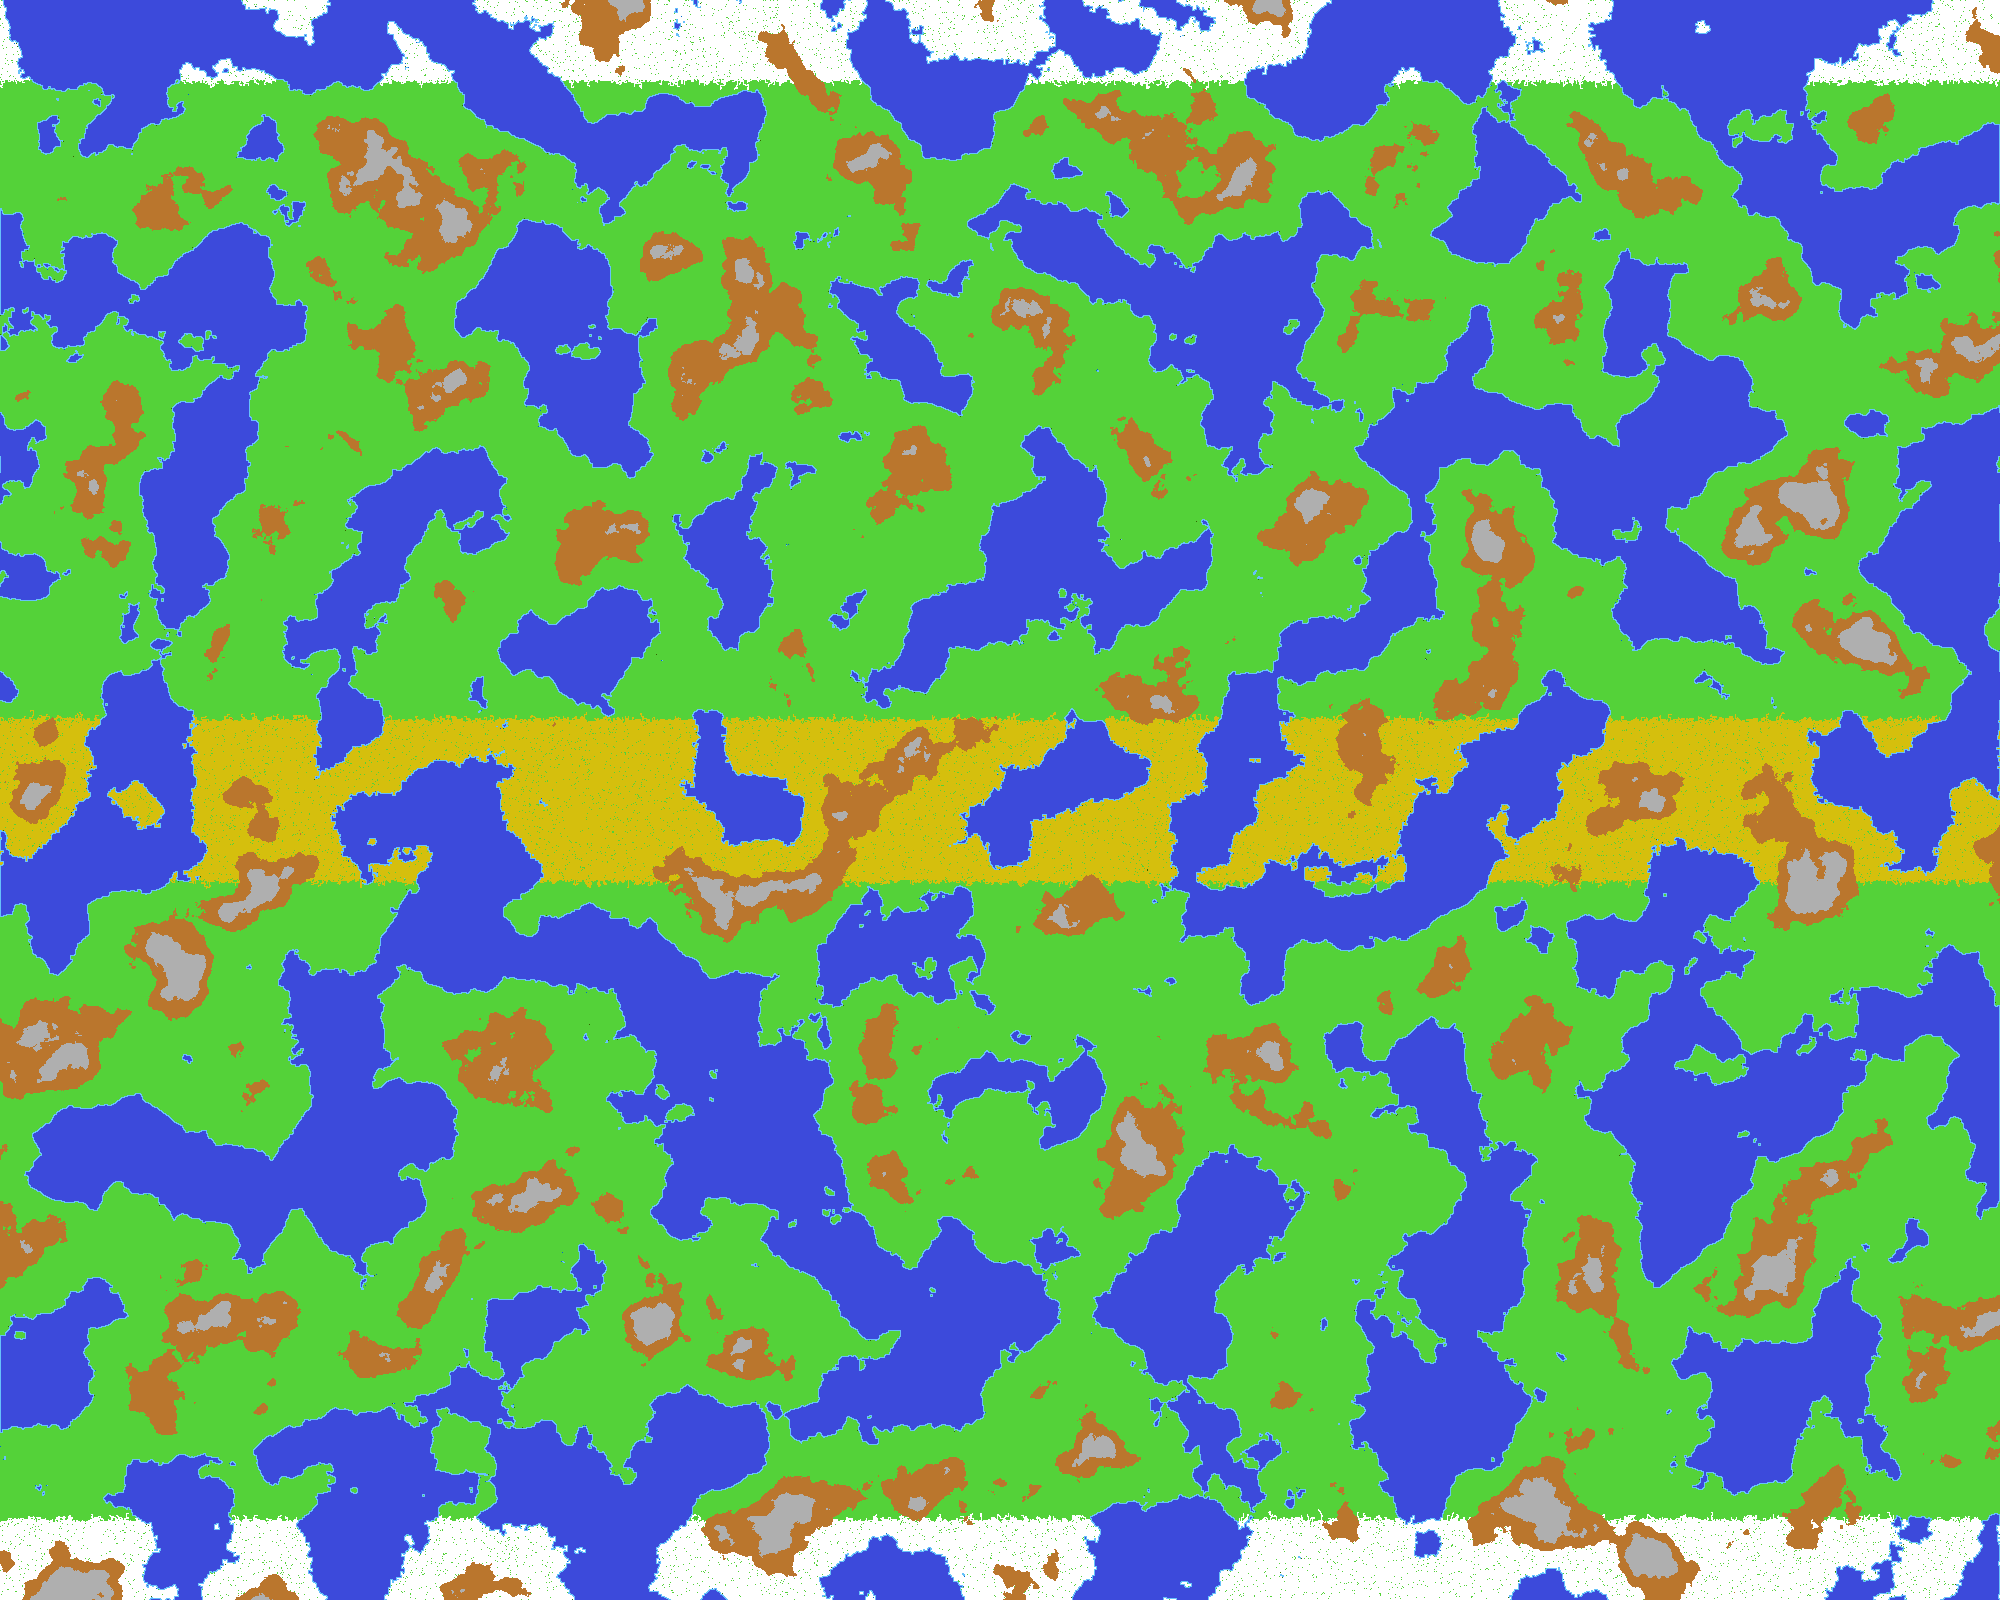
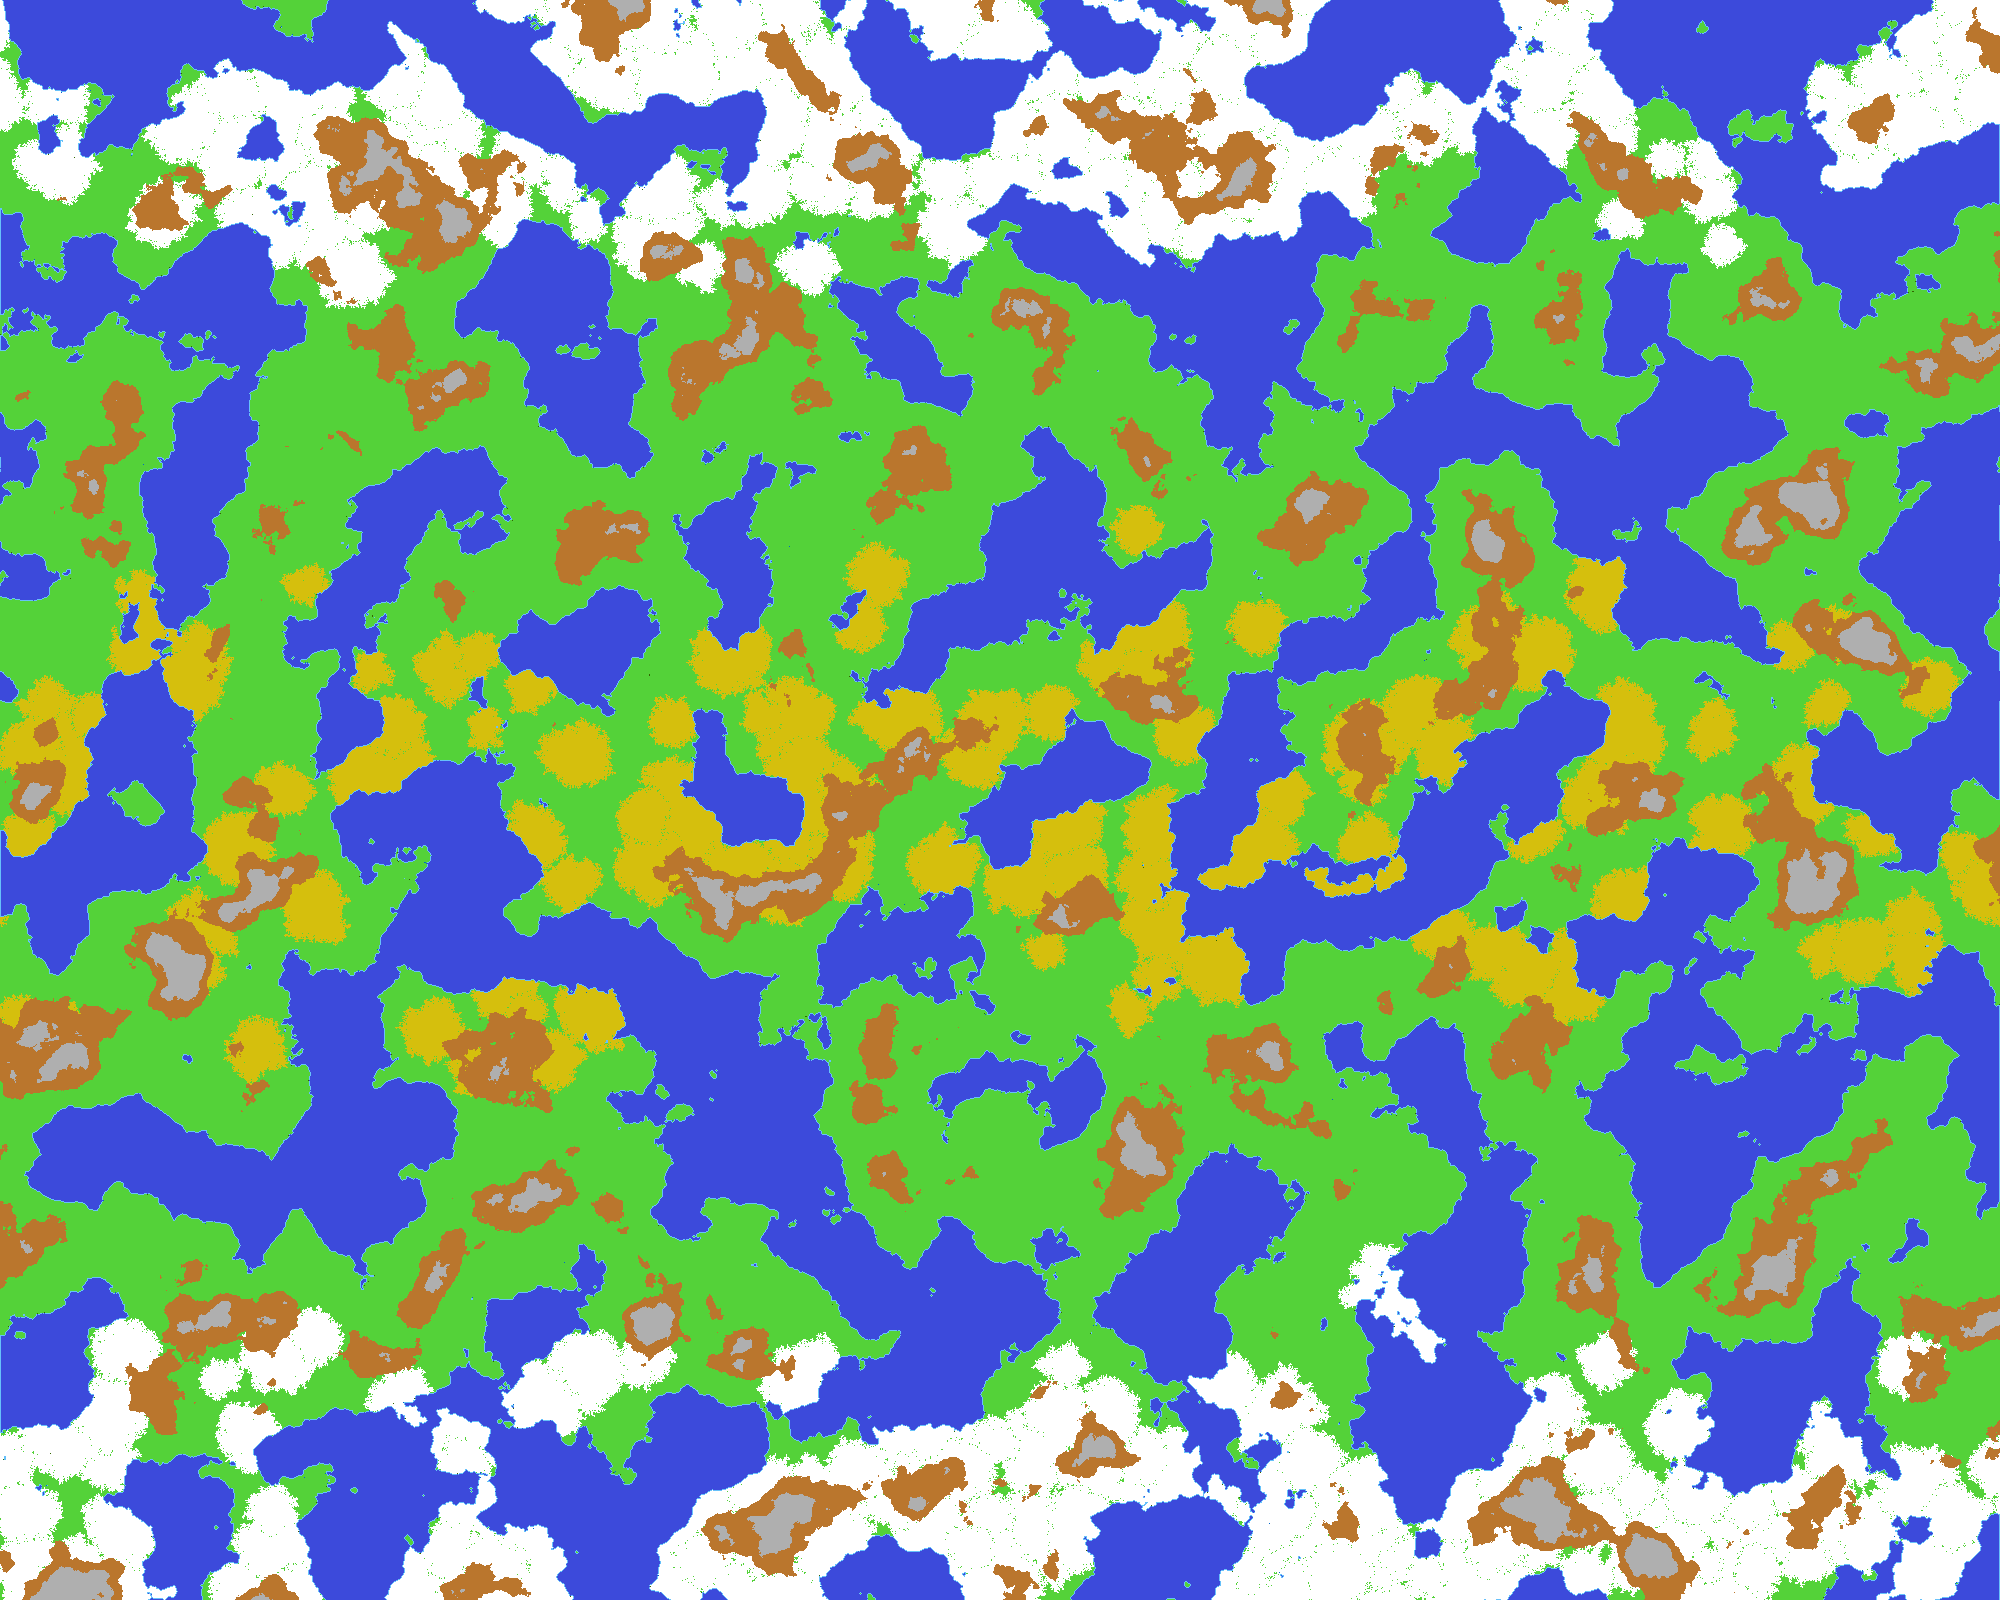
improve desert and snow

diff --git a/map_generator.py b/map_generator.py
@@ -72,33 +72,64 @@ class MapGenerator():
         return map_loc
 
 
+
+
+
+    def create_stain(self, starting_position, size, requirements=None):
+        x =  starting_position[0]
+        y = starting_position[1]
+        map_loc = self.map_object.map.copy()
+        stain = {(x, y)}
+        if requirements is None:
+            requirements = []
+        potentials = set()
+        ct = 0
+
+        while ct<=size:
+            caseadj = self.map_object.caseadjacente(x, y)
+            caseadj = {(i[0], i[1]) for i in caseadj if map_loc[i[1]][i[0]] in requirements}
+            potentials.update(caseadj-stain)
+            if len(potentials) == 0:
+                break
+            x, y = random.sample(potentials, 1)[0]
+            stain.add((x, y))
+            potentials.remove((x, y))
+            ct += 1
+        return stain
+
+
     def generate_snows(self):
-        taille = 0
         nord = int((self.hauteur / 10) * 0.5)
         sud = int((self.hauteur / 10) * 9.5)
-        terr = neige
+        hns = nord + self.hauteur - sud
+        poles_surface = hns * self.longueur
+
         map_loc = self.map_object.map.copy()
-        for j in range(0, self.hauteur):
-            for i in range(0, self.longueur):
-                if map_loc[j][i] == terre:
-                    if (j < nord or j > sud):
-                        taille = random.randint(0, 20)
-                        x = i
-                        y = j
-                        for b in range(0, taille):
-                            c = 0
-                            caseadj = self.map_object.caseadjacente(x, y)
-                            co = random.randint(0, len(caseadj) - 1)
-                            x1 = caseadj[co][0]
-                            y1 = caseadj[co][1]
-                            while (map_loc[y1][x1] != terre and c < 5):
-                                co = random.randint(0, len(caseadj) - 1)
-                                x1 = caseadj[co][0]
-                                y1 = caseadj[co][1]
-                                c = c + 1
-                            map_loc[y1][x1] = terr
-                            x = x1
-                            y = y1
+
+        number_of_snows=  int(self.map_object.get_land_ratio() * poles_surface * 0.001 )
+        number_of_snows = max(1, number_of_snows + random.randint(int(-number_of_snows/15), int(number_of_snows/15)))
+        max_number_of_snow_per_group = int(100 + self.map_object.get_land_ratio() * poles_surface * 0.02)
+        min_number_of_snow_per_group = int(100 + self.map_object.get_land_ratio() * poles_surface * 0.005)
+        terr = neige
+
+        for i in range(0, number_of_snows):
+            x = random.randint(0, self.longueur - 1)
+            pos1 = random.randint(0, int(nord+random.randint(0,int(self.hauteur/8))))
+            pos2 = random.randint(int(sud+random.randint(int(-self.hauteur/8),0)), self.hauteur-1)
+            y = random.choice([pos1, pos2])
+            # y = random.randint(int(nord)+random.randint(0, int(self.hauteur/8)), int(sud)+random.randint(int(-self.hauteur/8), 0))
+            while (map_loc[y][x] != terre):
+                x = random.randint(0, self.longueur - 1)
+                pos1 = random.randint(0, int(nord+random.randint(0,int(self.hauteur/8))))
+                pos2 = random.randint(int(sud+random.randint(int(-self.hauteur/8),0)), self.hauteur-1)
+                y = random.choice([pos1, pos2])
+            tailleC = random.randint(max(100, min_number_of_snow_per_group), max_number_of_snow_per_group)
+            stain = self.create_stain((x, y), tailleC, [terre])
+            for xy in stain:
+                x = xy[0]
+                y = xy[1]
+                map_loc[y][x] = terr
+
         return map_loc
 
 
@@ -106,29 +137,27 @@ class MapGenerator():
         nord = (self.hauteur / 10) * 4.5
         sud = (self.hauteur / 10) * 5.5
         hns = sud - nord
-        terr = desert
+        equator_surface = hns * self.longueur
+        
         map_loc = self.map_object.map.copy()
-        for j in range(0, self.hauteur):
-            for i in range(0, self.longueur):
-                if map_loc[j][i] == terre:
-                    if j > nord and j < sud:
-                        taille = random.randint(0, 20)
-                        x = i
-                        y = j
-                        for b in range(0, int(taille)):
-                            c = 0
-                            caseadj = self.map_object.caseadjacente(x, y)
-                            co = random.randint(0, len(caseadj) - 1)
-                            x1 = caseadj[co][0]
-                            y1 = caseadj[co][1]
-                            while (map_loc[y1][x1] != terre and c < 5):
-                                co = random.randint(0, len(caseadj) - 1)
-                                x1 = caseadj[co][0]
-                                y1 = caseadj[co][1]
-                                c = c + 1
-                            map_loc[y1][x1] = terr
-                            x = x1
-                            y = y1
+        number_of_deserts=  int(self.map_object.get_land_ratio() * equator_surface * 0.0005 )
+        number_of_deserts = max(1, number_of_deserts + random.randint(int(-number_of_deserts/15), int(number_of_deserts/15)))
+        max_number_of_desert_per_group = int(100 + self.map_object.get_land_ratio() * equator_surface * 0.02)
+        min_number_of_desert_per_group = int(100 + self.map_object.get_land_ratio() * equator_surface * 0.005)
+        terr = desert
+
+        for i in range(0, number_of_deserts):
+            x = random.randint(0, self.longueur - 1)
+            y = random.randint(int(nord)+random.randint(int(-self.hauteur/8), 0), int(sud)+random.randint(0, int(self.hauteur/8)))
+            while (map_loc[y][x] != terre):
+                x = random.randint(0, self.longueur - 1)
+                y = random.randint(int(nord)+random.randint(int(-self.hauteur/8), 0), int(sud)+random.randint(0, int(self.hauteur/8)))
+            tailleC = random.randint(max(100, min_number_of_desert_per_group), max_number_of_desert_per_group)
+            stain = self.create_stain((x, y), tailleC, [terre])
+            for xy in stain:
+                x = xy[0]
+                y = xy[1]
+                map_loc[y][x] = terr
         return map_loc
 
 
@@ -243,17 +272,8 @@ class MapGenerator():
                     for b in range(0, len(caseadj)):
                         x1 = caseadj[b][0]
                         y1 = caseadj[b][1]
-                        if map_loc[y1][x1] in [pln, col, mont, neige, desert]:
+                        if map_loc[y1][x1] not in [ocn, mer]:
                             map_loc[j][i] = mer
-                    if map_loc[j][i] == ocn:
-                        casediag = self.map_object.casediagonale(i, j)
-                        ##                                        print(casediag)
-                        for b in range(0, len(casediag)):
-                            x1 = casediag[b][0]
-                            y1 = casediag[b][1]
-                            ##                                                print("y1=",y1,"x1=",x1)
-                            if map_loc[y1][x1] in [pln, col, mont, neige, desert]:
-                                map_loc[j][i] = mer
         return map_loc
 
 

diff --git a/map_generator_heightmap.py b/map_generator_heightmap.py
@@ -18,6 +18,9 @@ class MapGeneratorHeightmap(MapGenerator):
         self.heightmap = self.generate_heightmap()
 
     def generate_heightmap(self):
+        # set a random seed for noise
+
+
         heightmap = []
         octaves = 8
         freq = 32 * octaves
@@ -25,6 +28,7 @@ class MapGeneratorHeightmap(MapGenerator):
             heightmap.append([])
             for j in range(0, self.longueur):
                 heightmap[-1].append(noise.snoise2(j/freq, i/freq, octaves=octaves))
+        
         # import matplotlib.pyplot as plt
         # plt.imshow(heightmap)
         # plt.show()
